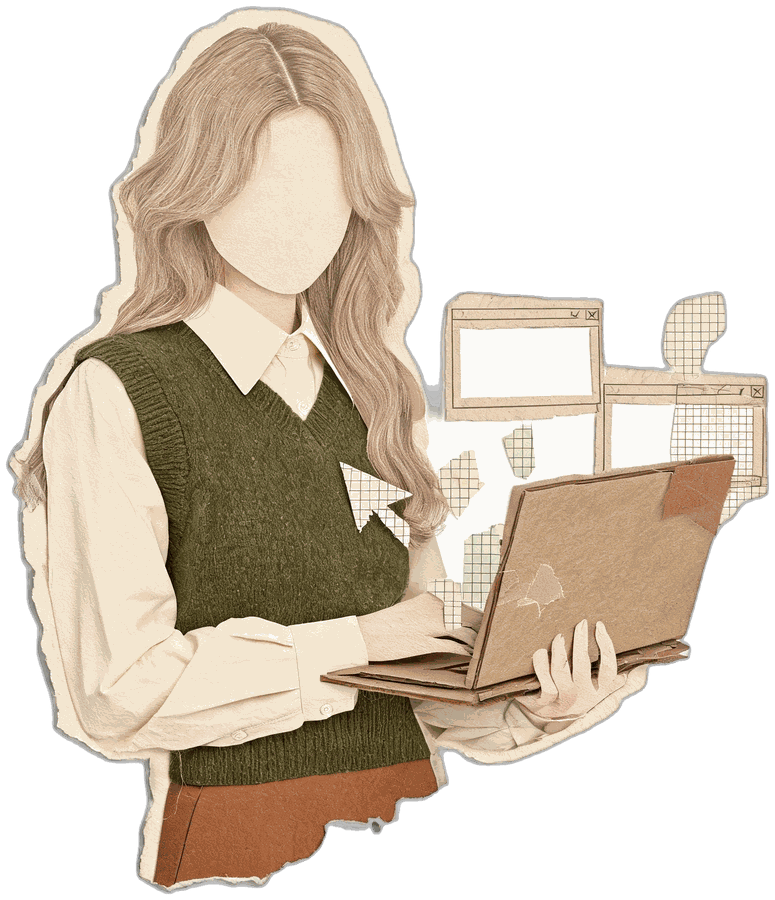
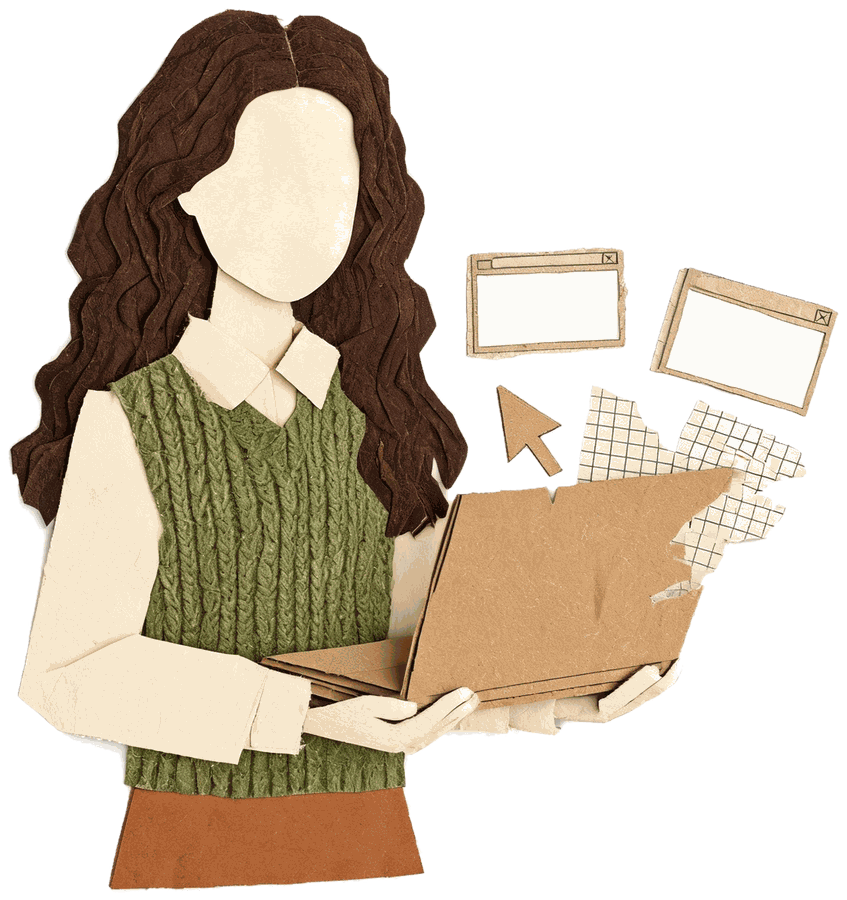
Collage portrait, resume experience panel, unified faceless illustrations, data fixes

diff --git a/docs/styles.css b/docs/styles.css
@@ -49,12 +49,10 @@ button:focus-visible,a:focus-visible { outline:3px solid var(--c1); outline-offs
 /* 首屏 */
 .hero { min-height:100svh; padding-top:var(--nav); display:grid; align-items:center; overflow:hidden; }
 .hero-bg { position:absolute; inset:0; z-index:0; pointer-events:none; }
-.bg-paper { position:absolute; right:-4%; top:5%; width:46%; height:86%; background:var(--alt); background-image:var(--noise); border:1px solid var(--line); clip-path:var(--torn); transform:rotate(-2.5deg); }
 .bg-grid { position:absolute; left:-24px; bottom:9%; width:280px; height:200px; background-image:linear-gradient(rgba(41,38,38,.08) 1px,transparent 1px),linear-gradient(90deg,rgba(41,38,38,.08) 1px,transparent 1px); background-size:26px 26px; transform:rotate(-4deg); }
 .bg-circle { position:absolute; right:7%; bottom:9%; width:150px; height:150px; border:1.5px dashed var(--c1); border-radius:50%; opacity:.7; }
 .bg-word { position:absolute; left:0; bottom:-3%; font-family:var(--condensed); font-size:clamp(130px,18vw,250px); font-weight:900; line-height:.8; letter-spacing:.02em; color:transparent; -webkit-text-stroke:1px rgba(41,38,38,.10); }
 .bg-tape { position:absolute; width:110px; height:30px; background:rgba(180,154,113,.4); mix-blend-mode:multiply; }
-.tape-a { top:9%; right:26%; transform:rotate(-8deg); }
 .tape-b { bottom:22%; left:40%; width:80px; background:rgba(165,177,178,.45); transform:rotate(12deg); }
 .hero-content { position:relative; z-index:1; display:grid; grid-template-columns:minmax(0,1.12fr) minmax(280px,.88fr); align-items:center; gap:clamp(20px,3vw,44px); padding-block:36px 40px; }
 .hero-head,.hero-copy { grid-column:1; }
@@ -79,15 +77,20 @@ button:focus-visible,a:focus-visible { outline:3px solid var(--c1); outline-offs
 .button-link:hover { transform:translateY(-2px); border-color:var(--ink); }
 .button-link:active { transform:translateY(0); }
 .button-link.primary { color:var(--cream); background:var(--ink); border-color:var(--ink); }
-.portrait-wrap { position:relative; grid-column:2; grid-row:1/3; justify-self:center; align-self:center; width:min(100%,320px); aspect-ratio:4/5; overflow:hidden; border:2px solid var(--ink); background:var(--card-bg); box-shadow:14px 14px 0 var(--c2); isolation:isolate; }
-.portrait-wrap img { display:block; width:100%; height:100%; object-fit:contain; object-position:center; }
-.portrait-wrap figcaption { position:absolute; z-index:2; left:18px; bottom:16px; padding:8px 11px; color:var(--cream); background:var(--ink); font-family:var(--sans); font-size:11px; font-weight:700; letter-spacing:.14em; }
+.portrait-wrap { position:relative; grid-column:2; grid-row:1/3; justify-self:center; align-self:center; width:min(100%,340px); isolation:isolate; }
+.portrait-collage img { position:relative; z-index:2; display:block; width:100%; height:auto; filter:drop-shadow(0 14px 22px rgba(41,38,38,.18)); }
+.pc-paper { position:absolute; z-index:0; left:-7%; right:-7%; top:26%; bottom:-4%; background:var(--card-bg); background-image:var(--noise); border:1px solid var(--line); clip-path:var(--torn); transform:rotate(-2.5deg); }
+.pc-tape { position:absolute; z-index:3; top:32%; left:-9%; width:84px; height:24px; transform:rotate(-32deg); background:rgba(180,154,113,.45); mix-blend-mode:multiply; }
+.pc-scrap { position:absolute; clip-path:var(--torn); background-image:var(--noise); background-blend-mode:soft-light; }
+.scrap-a { z-index:1; left:-13%; bottom:1%; width:34%; height:22%; background-color:var(--c2); transform:rotate(-10deg); }
+.scrap-b { z-index:0; right:-9%; bottom:10%; width:26%; height:16%; background-color:var(--c3); transform:rotate(8deg); }
+.portrait-wrap figcaption { position:absolute; z-index:3; left:-4%; bottom:1%; padding:8px 11px; color:var(--cream); background:var(--ink); font-family:var(--sans); font-size:11px; font-weight:700; letter-spacing:.14em; }
 
 .section-shell { padding-block:clamp(72px,9vh,104px); }
 .section-heading { margin-bottom:36px; }
-.section-heading.has-illo { display:flex; align-items:center; justify-content:space-between; gap:24px; margin-bottom:20px; }
+.section-heading.has-illo { display:flex; align-items:flex-end; justify-content:space-between; gap:24px; margin-bottom:20px; }
 .heading-text { min-width:0; }
-.illo-stage { position:relative; z-index:2; flex-shrink:0; margin:0 0 -30px; }
+.illo-stage { position:relative; z-index:2; flex-shrink:0; margin:0 0 -30px -64px; }
 .illo-stage::before { content:""; position:absolute; inset:12% -6% 2%; background:var(--card-bg); background-image:var(--noise); border:1px solid var(--line); clip-path:var(--torn); transform:rotate(-3deg); }
 .illo-stage::after { content:""; position:absolute; z-index:2; top:3%; left:50%; width:78px; height:22px; transform:translateX(-50%) rotate(-5deg); background:rgba(180,154,113,.42); mix-blend-mode:multiply; }
 .section-illo { position:relative; z-index:1; display:block; width:auto; height:210px; object-fit:contain; filter:drop-shadow(5px 8px 12px rgba(41,38,38,.18)); transform:rotate(2deg); }
@@ -105,15 +108,19 @@ button:focus-visible,a:focus-visible { outline:3px solid var(--c1); outline-offs
 .basic-cell { padding:14px 0; border-bottom:1px solid var(--line); }
 .basic-cell:nth-last-child(-n+2) { border-bottom:0; }
 .basic-cell dt { color:rgba(41,38,38,.55); font-family:var(--sans); font-size:12px; }
-.basic-cell dd { margin-top:5px; font-size:16px; font-weight:700; line-height:1.5; }
+.basic-cell dd { margin-top:5px; font-size:16px; font-weight:700; line-height:1.5; white-space:pre-line; }
 .edu-card { padding:24px; border:1px solid var(--line); background:var(--card-bg); background-image:var(--noise); background-blend-mode:soft-light; }
 .edu-period { color:color-mix(in srgb,var(--accent) 55%,var(--ink)); font-family:var(--sans); font-size:12px; font-weight:700; letter-spacing:.08em; }
-.edu-card h3 { margin-top:10px; font-family:var(--serif); font-size:24px; line-height:1.3; }
+.edu-card h3 { margin-top:10px; font-family:var(--serif); font-size:24px; line-height:1.35; white-space:pre-line; }
 .edu-major { margin-top:6px; font-family:var(--sans); font-size:14px; font-weight:700; }
 .edu-detail { margin-top:12px; color:var(--secondary); font-size:15px; line-height:1.8; }
 .edu-courses { margin-top:10px; color:var(--secondary); font-size:14px; line-height:1.8; }
-.jobs { border-top:1px solid var(--line); }
-.job { display:grid; grid-template-columns:190px 1fr; gap:24px; padding:26px 0; border-bottom:1px solid var(--line); }
+.jobs-panel { padding:28px 32px 10px; border:1px solid var(--line); background:#e5e0e8; background-image:var(--noise); background-blend-mode:soft-light; clip-path:var(--torn); }
+.jobs-head { margin-bottom:16px; }
+.jobs-head h3 { margin-top:8px; font-family:var(--serif); font-size:27px; }
+.jobs { border-top:1px solid rgba(41,38,38,.14); }
+.job { display:grid; grid-template-columns:190px 1fr; gap:24px; padding:26px 0; border-bottom:1px solid rgba(41,38,38,.14); }
+.job:last-child { border-bottom:0; }
 .job-period { color:color-mix(in srgb,var(--accent) 55%,var(--ink)); font-family:var(--sans); font-size:13px; font-weight:700; line-height:1.7; }
 .job h3 { font-family:var(--serif); font-size:26px; line-height:1.2; }
 .job-role { margin-top:6px; font-family:var(--sans); font-size:14px; font-weight:700; }
@@ -209,11 +216,9 @@ footer span { color:var(--c2); }
   .nav-links a { min-height:46px; display:flex; align-items:center; padding-inline:12px; font-size:13px; }
   .brand { font-size:17px; }
   .hero { min-height:100svh; align-items:start; }
-  .bg-paper { width:88%; height:44%; top:auto; bottom:3%; right:-8%; }
   .bg-grid { display:none; }
   .bg-circle { width:96px; height:96px; right:8%; bottom:6%; }
   .bg-word { font-size:26vw; bottom:34%; left:-2%; }
-  .tape-a { right:12%; top:12%; width:80px; height:24px; }
   .tape-b { display:none; }
   .hero-content { grid-template-columns:1fr; align-items:start; gap:26px; padding-block:30px 60px; }
   .hero-head,.hero-copy { grid-column:auto; }
@@ -228,7 +233,7 @@ footer span { color:var(--c2); }
   .hero-actions { display:grid; grid-template-columns:1fr 1fr; }
   .button-link { min-height:48px; padding-inline:12px; }
   .button-link:first-child { grid-column:1/-1; }
-  .portrait-wrap { order:3; grid-column:auto; grid-row:auto; justify-self:center; width:min(100%,280px); box-shadow:8px 8px 0 var(--c2); }
+  .portrait-wrap { order:3; grid-column:auto; grid-row:auto; justify-self:center; width:min(100%,290px); margin-top:16px; }
   .portrait-wrap img { height:auto; }
   .section-shell { padding-block:64px; }
   .section-heading { margin-bottom:28px; }
@@ -238,8 +243,9 @@ footer span { color:var(--c2); }
   .crown.long { font-size:clamp(25px,6.2vw,36px); }
   .crown::after { transform:translate(5px,5px); }
   .section-illo { height:120px; transform:rotate(3deg); }
-  .illo-stage { margin-bottom:-14px; }
+  .illo-stage { margin-bottom:-14px; margin-left:-24px; }
   .illo-stage::after { width:56px; height:18px; }
+  .jobs-panel { padding:22px 20px 6px; }
   .about-card { min-height:210px; }
   .job { grid-template-columns:1fr; gap:10px; padding:24px 0; }
   .job h3 { font-size:24px; }

diff --git a/docs/content.js b/docs/content.js
@@ -13,7 +13,7 @@ window.SITE_CONTENT = {
     role: "编导 × 拍摄剪辑 × 新媒体运营",
     tagline: ["把镜头对准真实，", "把内容做成结果。"],
     intro: "网络与新媒体专业本科。做过教育、舞蹈艺考、家政等行业的账号与内容，独立负责口播、直播切片、宣传视频的脚本、拍摄、剪辑与运营，也做公众号、H5 和网页。",
-    portrait: "media/portrait.webp",
+    portrait: "media/portrait-cut.png",
     portraitAlt: "秦铭的个人照片",
     chips: ["拍摄", "剪辑", "编导", "账号运营", "H5 / 网页"]
   },
@@ -31,14 +31,14 @@ window.SITE_CONTENT = {
     basics: [
       { label: "姓名", value: "秦铭" },
       { label: "出生年月", value: "2003 年 1 月" },
-      { label: "毕业院校", value: "北京第二外国语学院（中国传媒大学）" },
+      { label: "毕业院校", value: "北京第二外国语学院\n（中国传媒大学）" },
       { label: "专业", value: "网络与新媒体 · 本科" },
       { label: "手机", value: "135 2248 6458" },
       { label: "邮箱", value: "1654160750@qq.com" }
     ],
     education: {
       period: "2021.09 — 2025.06",
-      school: "北京第二外国语学院（中国传媒大学）",
+      school: "北京第二外国语学院\n（中国传媒大学）",
       major: "网络与新媒体 · 本科",
       detail: "传媒大学 GPA 3.75/4；在校获得三好学生、校级奖学金。",
       courses: "主修课程：媒介文化学、新媒体编辑、图文编辑、专业软件应用、电视画面编辑、电视采访报道、非线性编辑技术、图片摄影、新闻特稿写作、影视观念探析等。"
@@ -49,12 +49,12 @@ window.SITE_CONTENT = {
         organization: "北京舞之美",
         role: "拍摄剪辑",
         points: [
-          "负责舞蹈艺考类双账号新媒体运营，选题策划、短视频拍摄与内容更新，产出多条 5w+ 高赞爆款视频。",
+          "负责舞蹈艺考类双账号新媒体运营，选题策划、短视频拍摄与内容更新，产出单条点赞 10w+ 的爆款视频。",
           "独立完成艺考测评、课堂日常、大型集体测评活动的取景录制，使用稳定器、三脚架、长焦镜头完成多场景画面拍摄。"
         ]
       },
       {
-        period: "2026.02 — 2026.04",
+        period: "2026.01 — 2026.05",
         organization: "阿姨来了家政公司",
         role: "编导与文字编辑（兼职）",
         points: [
@@ -86,8 +86,8 @@ window.SITE_CONTENT = {
       organization: "北京舞之美 / 杨老师",
       role: "舞蹈艺考双账号运营",
       description: "选题策划、短视频拍摄与内容更新，围绕舞蹈艺考测评与课堂场景产出内容。",
-      metric: "5w+",
-      metricLabel: "多条高赞爆款视频",
+      metric: "10w+",
+      metricLabel: "单条视频点赞量",
       tags: ["双账号", "选题策划", "拍摄剪辑"]
     },
     {
@@ -100,7 +100,7 @@ window.SITE_CONTENT = {
       tags: ["起号", "口播", "数据复盘"]
     },
     {
-      period: "2026.02 — 2026.04",
+      period: "2026.01 — 2026.05",
       organization: "阿姨来了家政",
       role: "4 平台分发与直播运营",
       description: "按平台特性差异化分发内容；主持学员毕业唱单直播，通过评论区、私信、直播建立用户留资闭环。",

diff --git a/docs/index.html b/docs/index.html
@@ -28,11 +28,9 @@
   <main>
     <section class="hero scene" id="hero">
       <div class="hero-bg" aria-hidden="true">
-        <span class="bg-paper"></span>
         <span class="bg-grid"></span>
         <span class="bg-circle"></span>
         <span class="bg-word">PORTFOLIO</span>
-        <span class="bg-tape tape-a"></span>
         <span class="bg-tape tape-b"></span>
       </div>
       <div class="hero-content page-shell">
@@ -50,8 +48,12 @@
           <p class="hero-intro" id="personIntro"></p>
           <div class="hero-actions" id="heroActions"></div>
         </div>
-        <figure class="portrait-wrap">
-          <img id="portrait" src="media/portrait.webp" alt="秦铭的个人照片" width="880" height="1100">
+        <figure class="portrait-wrap portrait-collage">
+          <span class="pc-paper" aria-hidden="true"></span>
+          <span class="pc-scrap scrap-a" aria-hidden="true"></span>
+          <span class="pc-scrap scrap-b" aria-hidden="true"></span>
+          <span class="pc-tape" aria-hidden="true"></span>
+          <img id="portrait" src="media/portrait-cut.png" alt="秦铭的个人照片" width="835" height="1000">
           <figcaption>QIN MING / 2026</figcaption>
         </figure>
       </div>
@@ -71,7 +73,13 @@
           <dl class="resume-basics" id="resumeBasics"></dl>
           <article class="edu-card" id="resumeEdu"></article>
         </div>
-        <div class="jobs" id="resumeJobs"></div>
+        <div class="jobs-panel">
+          <div class="jobs-head">
+            <p class="eyebrow">EXPERIENCE</p>
+            <h3>工作经历</h3>
+          </div>
+          <div class="jobs" id="resumeJobs"></div>
+        </div>
       </div>
     </section>
 
